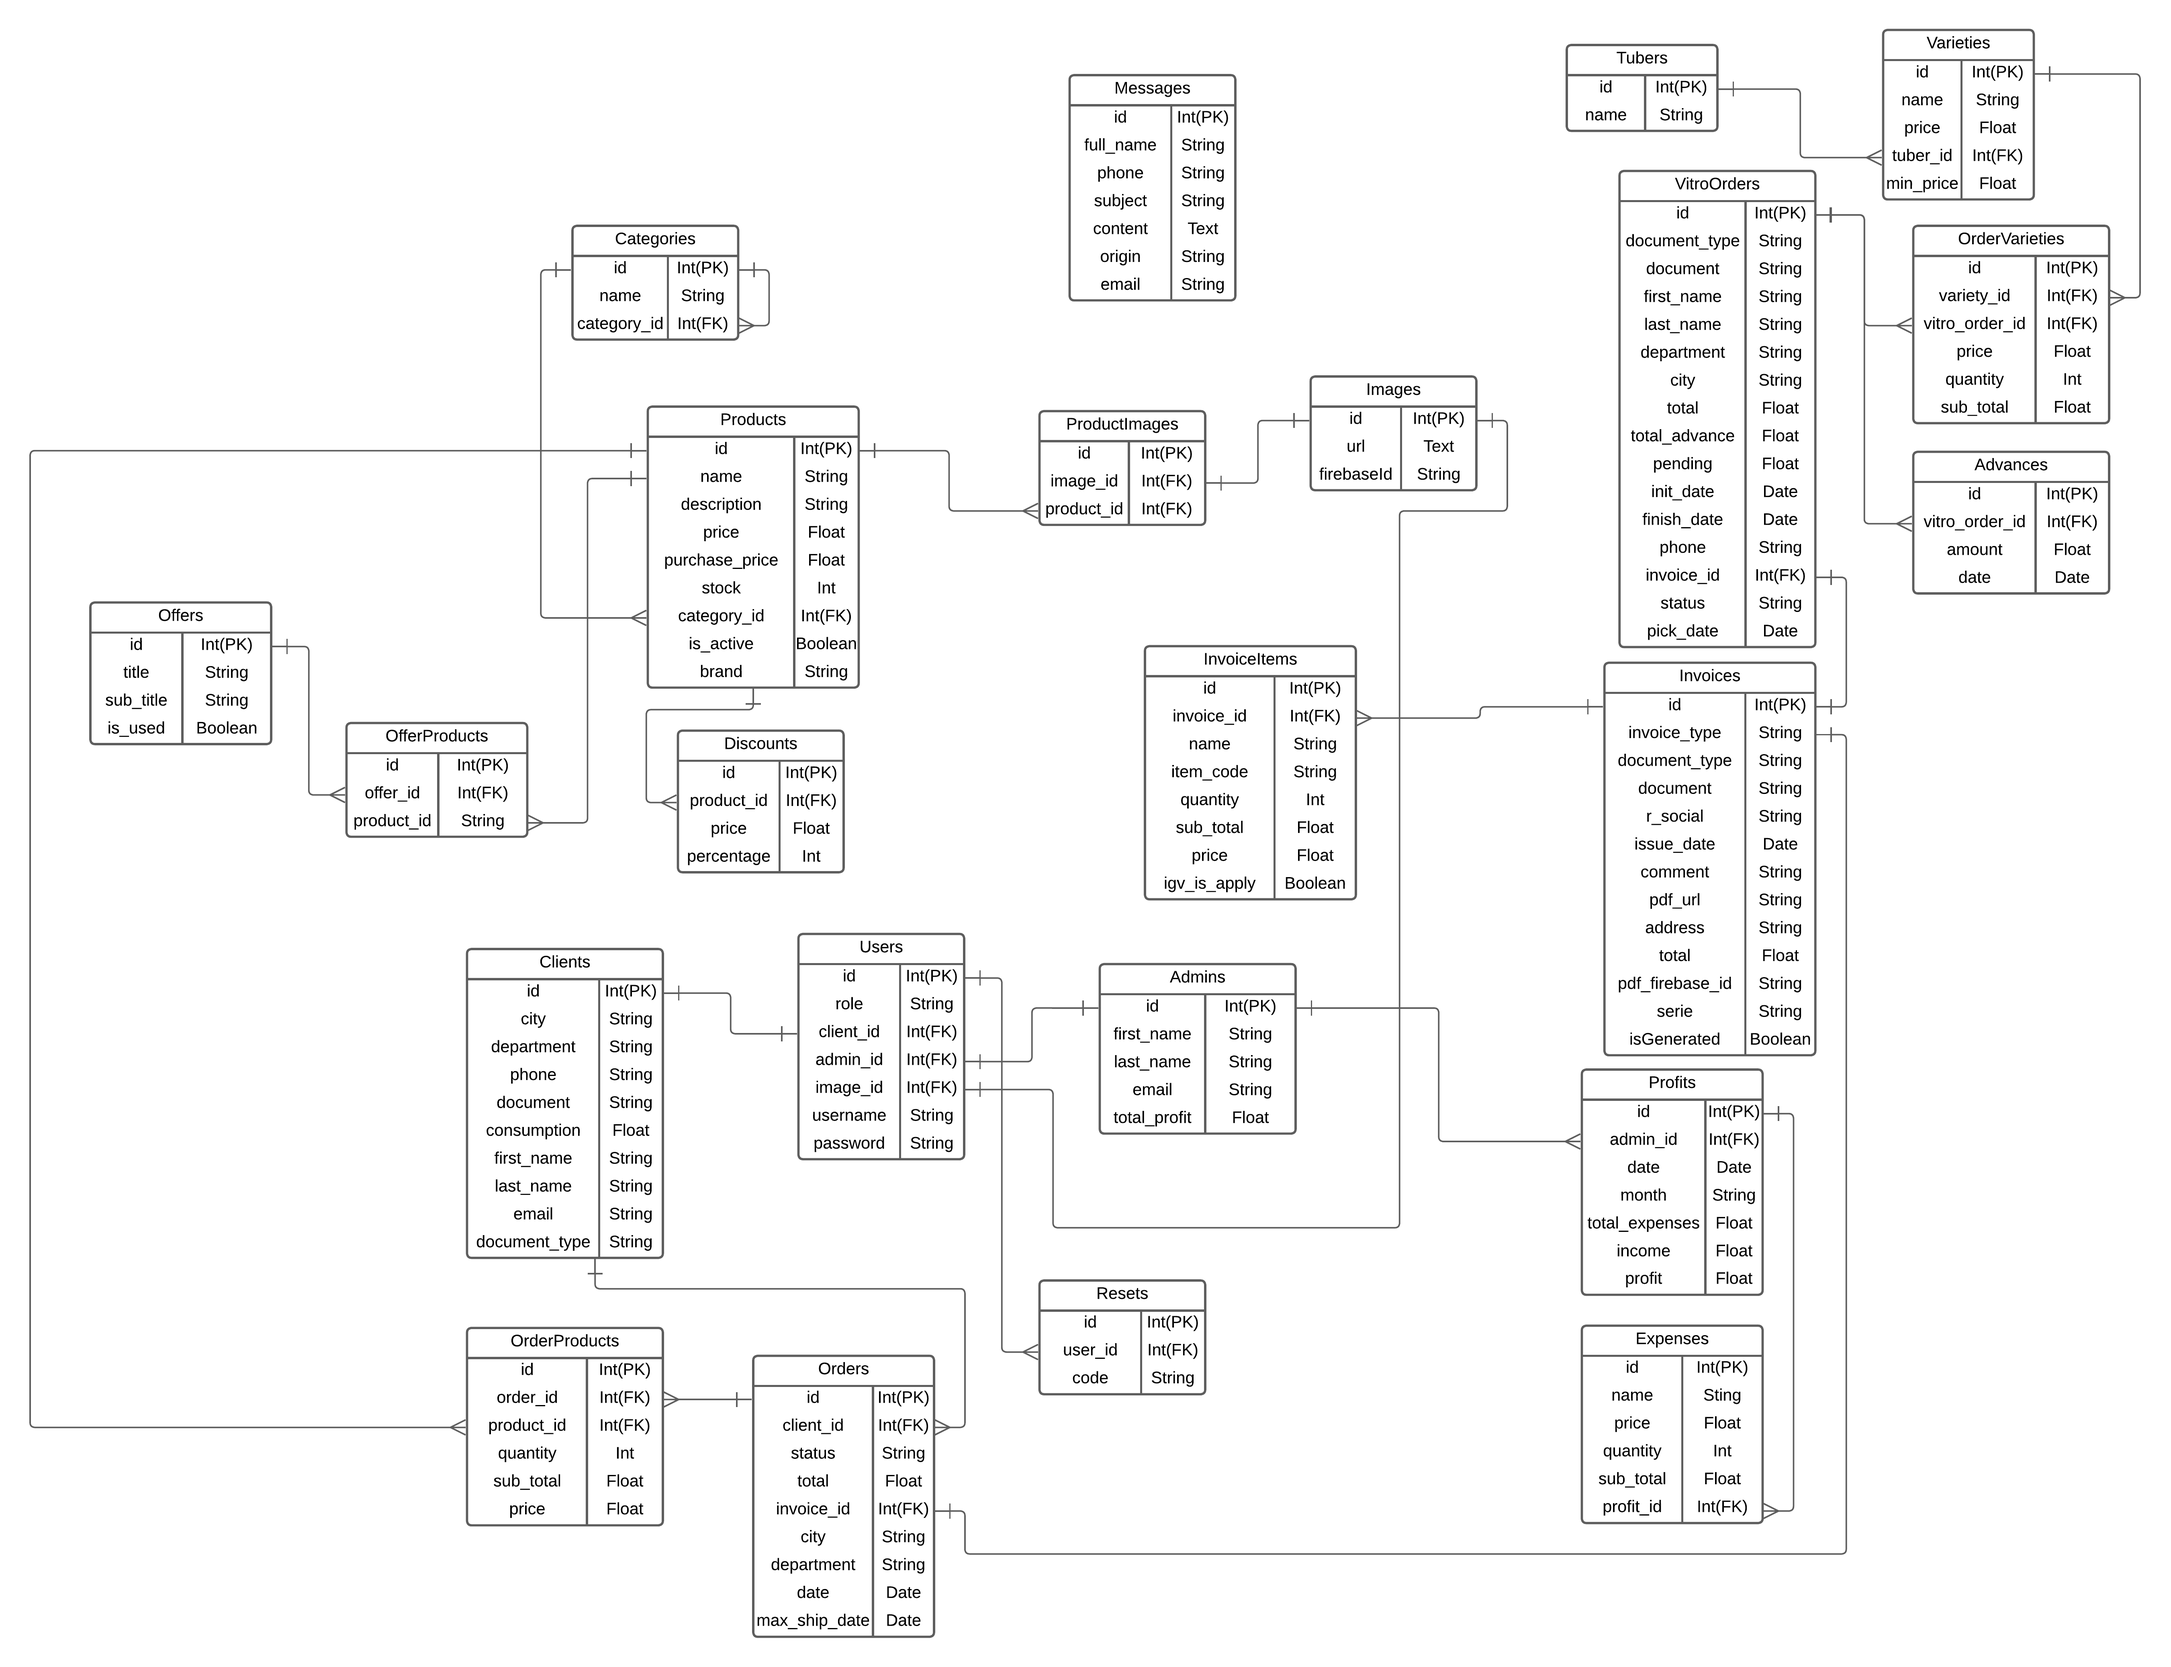
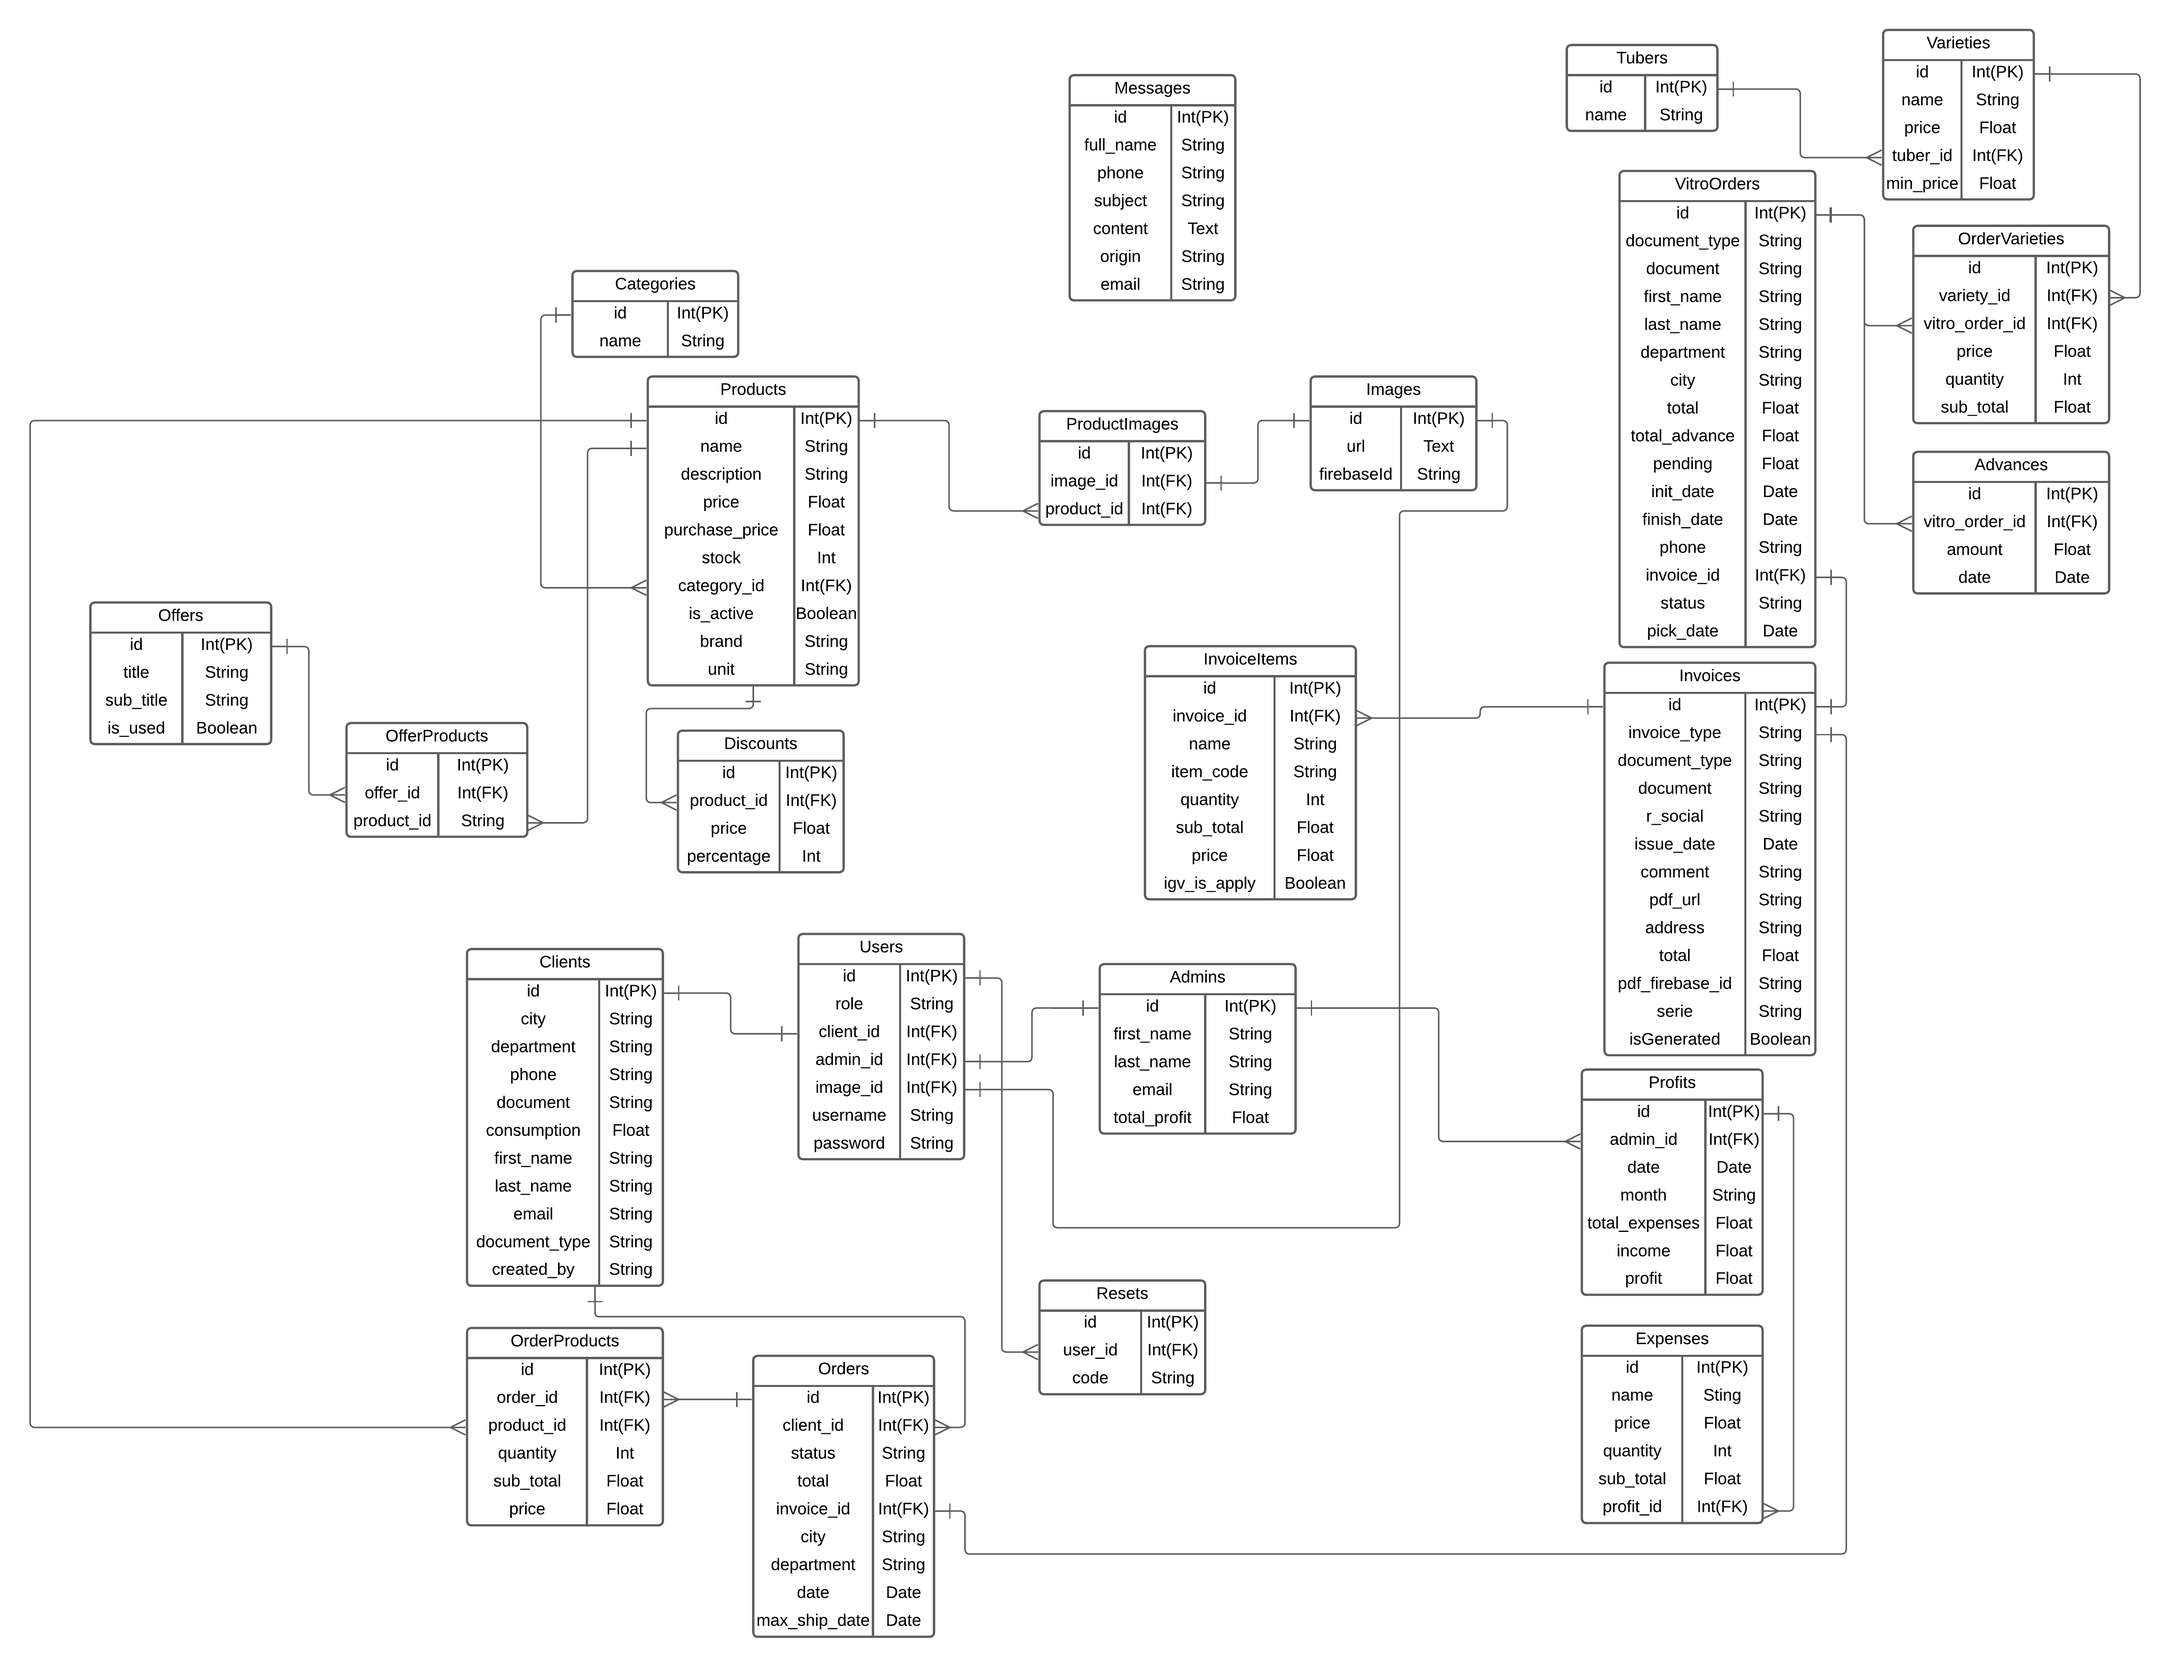
UPDATE: models

Changed region(s): [[0.3109, 0.2176, 0.4041, 0.4353], [0.2487, 0.1244, 0.342, 0.2176], [0.2176, 0.7462, 0.3109, 0.7773]]

diff --git a/src/main/java/com/inversionesaraujo/api/controller/CategoryController.java b/src/main/java/com/inversionesaraujo/api/controller/CategoryController.java
@@ -16,7 +16,6 @@ import org.springframework.web.bind.annotation.RestController;
 
 import com.inversionesaraujo.api.model.entity.Category;
 import com.inversionesaraujo.api.model.payload.MessageResponse;
-import com.inversionesaraujo.api.model.request.CategoryRequest;
 import com.inversionesaraujo.api.service.ICategory;
 
 @RestController
@@ -27,7 +26,7 @@ public class CategoryController {
 
     @GetMapping
     public List<Category> getAll() {
-        return categoryService.listParentCategories();
+        return categoryService.listAll();
     }
 
     @GetMapping("{id}")
@@ -49,20 +48,14 @@ public class CategoryController {
     }
 
     @PostMapping
-    public ResponseEntity<MessageResponse> create(@RequestBody CategoryRequest categoryRequest) {
+    public ResponseEntity<MessageResponse> create(@RequestBody Category newCategory) {
         try {
-            Category categoryToSave = new Category();
-            if(categoryRequest.getCategoryId() != null) {
-                Category parentCategory = categoryService.findById(categoryRequest.getCategoryId());
-                categoryToSave.setCategory(parentCategory);
-            }
-            categoryToSave.setName(categoryRequest.getName());
-            categoryToSave = categoryService.save(categoryToSave);
+            Category savedCategory = categoryService.save(newCategory);
 
             return new ResponseEntity<>(MessageResponse
                 .builder()
                 .message("La categoria se creo con exito")
-                .data(categoryToSave)
+                .data(savedCategory)
                 .build(), HttpStatus.CREATED);   
         }catch (Exception error) {
             return new ResponseEntity<>(MessageResponse
@@ -73,13 +66,9 @@ public class CategoryController {
     }
 
     @PutMapping("{id}")
-    public ResponseEntity<MessageResponse> update(@RequestBody CategoryRequest categoryRequest, @PathVariable Integer id) {
+    public ResponseEntity<MessageResponse> update(@RequestBody Category categoryRequest, @PathVariable Integer id) {
         try {
             Category categoryToUpdate = categoryService.findById(id);
-            if(categoryRequest.getCategoryId() != null) {
-                Category categoryParent = categoryService.findById(categoryRequest.getCategoryId());
-                categoryToUpdate.setCategory(categoryParent);
-            }
             categoryToUpdate.setName(categoryRequest.getName());
             Category updatedCategory = categoryService.save(categoryToUpdate);
 

diff --git a/src/main/java/com/inversionesaraujo/api/controller/ProductController.java b/src/main/java/com/inversionesaraujo/api/controller/ProductController.java
@@ -66,19 +66,20 @@ public class ProductController {
     }
 
     @PostMapping
-    public ResponseEntity<MessageResponse> create(@RequestBody ProductRequest product) {
+    public ResponseEntity<MessageResponse> create(@RequestBody ProductRequest productRequest) {
         try {
-            Category category = categoryService.findById(product.getCategoryId());
+            Category category = categoryService.findById(productRequest.getCategoryId());
             Product productToSave = productService.save(Product
                 .builder()
                 .category(category)
-                .description(product.getDescription())
-                .isActive(product.getIsActive())
-                .name(product.getName())
-                .brand(product.getBrand())
-                .price(product.getPrice())
-                .purchasePrice(product.getPurchasePrice())
-                .stock(product.getStock())
+                .description(productRequest.getDescription())
+                .isActive(productRequest.getIsActive())
+                .name(productRequest.getName())
+                .brand(productRequest.getBrand())
+                .price(productRequest.getPrice())
+                .purchasePrice(productRequest.getPurchasePrice())
+                .stock(productRequest.getStock())
+                .unit(productRequest.getUnit())
                 .build());
 
             return new ResponseEntity<>(MessageResponse
@@ -107,6 +108,7 @@ public class ProductController {
             product.setName(productRequest.getName());
             product.setBrand(productRequest.getBrand());
             product.setDescription(productRequest.getDescription());
+            product.setUnit(productRequest.getUnit());
 
             Product productUpdated = productService.save(product);
 

diff --git a/src/main/java/com/inversionesaraujo/api/model/entity/Product.java b/src/main/java/com/inversionesaraujo/api/model/entity/Product.java
@@ -33,26 +33,28 @@ public class Product {
     @Id
     @GeneratedValue(strategy = GenerationType.IDENTITY)
     private Integer id;
-    @NotEmpty(message = "El nombre no puede ir vacio")
+    @NotEmpty(message = "El nombre no puede ir vacío")
     @Size(min = 3, max = 100)
     private String name;
     @Column(columnDefinition = "TEXT")
-    @NotEmpty(message = "La descripcion no puede ir vacia")
+    @NotEmpty(message = "La descripcion no puede ir vacía")
     private String description;
-    @NotEmpty(message = "La marca no puede ir vacia")
+    @NotEmpty(message = "La marca no puede ir vacía")
     private String brand;
-    @NotNull(message = "El precio no puede ir vacio")
+    @NotEmpty(message = "La unidad de medida no puede ir vacía")
+    private String unit;
+    @NotNull(message = "El precio no puede ir vacío")
     @PositiveOrZero
     private Double price;
-    @NotNull(message = "El precio de compra no puede ir vacio")
+    @NotNull(message = "El precio de compra no puede ir vacío")
     @PositiveOrZero
     private Double purchasePrice;
-    @NotNull(message = "El stock no puede ir vacio")
+    @NotNull(message = "El stock no puede ir vacío")
     @PositiveOrZero
     private Integer stock;
     @ManyToOne
     @JoinColumn(name = "category_id")
-    @NotNull(message = "El id de la categoria no puede ir vacia")
+    @NotNull(message = "El id de la categoria no puede ir vacía")
     private Category category;
     @Column(nullable = false)
     @Builder.Default

diff --git a/src/main/java/com/inversionesaraujo/api/model/entity/Category.java b/src/main/java/com/inversionesaraujo/api/model/entity/Category.java
@@ -1,19 +1,9 @@
 package com.inversionesaraujo.api.model.entity;
 
-import java.util.List;
-
-import com.fasterxml.jackson.annotation.JsonIgnore;
-import com.fasterxml.jackson.annotation.JsonIgnoreProperties;
-
-import jakarta.persistence.CascadeType;
 import jakarta.persistence.Entity;
-import jakarta.persistence.FetchType;
 import jakarta.persistence.GeneratedValue;
 import jakarta.persistence.GenerationType;
 import jakarta.persistence.Id;
-import jakarta.persistence.JoinColumn;
-import jakarta.persistence.ManyToOne;
-import jakarta.persistence.OneToMany;
 import jakarta.persistence.Table;
 import jakarta.validation.constraints.NotEmpty;
 import jakarta.validation.constraints.Size;
@@ -35,11 +25,4 @@ public class Category {
     @NotEmpty(message = "El nombre no puede ir vacio")
     @Size(min = 3)
     private String name;
-    @ManyToOne
-    @JoinColumn(name = "category_id")
-    @JsonIgnore
-    private Category category;
-    @OneToMany(mappedBy = "category", cascade = CascadeType.ALL, fetch = FetchType.LAZY)
-    @JsonIgnoreProperties("category")
-    private List<Category> subCategories;
 }

diff --git a/src/main/java/com/inversionesaraujo/api/model/dao/CategoryDao.java b/src/main/java/com/inversionesaraujo/api/model/dao/CategoryDao.java
@@ -1,11 +1,7 @@
 package com.inversionesaraujo.api.model.dao;
 
-import java.util.List;
-
 import org.springframework.data.jpa.repository.JpaRepository;
 
 import com.inversionesaraujo.api.model.entity.Category;
 
-public interface CategoryDao extends JpaRepository<Category, Integer> {
-  List<Category> findByCategoryIsNull();
-}
+public interface CategoryDao extends JpaRepository<Category, Integer> {}

diff --git a/src/main/java/com/inversionesaraujo/api/model/entity/Client.java b/src/main/java/com/inversionesaraujo/api/model/entity/Client.java
@@ -55,6 +55,9 @@ public class Client {
     @NotEmpty(message = "Los nombres no pueden ir vacios")
     @Size(min = 3)
     private String rsocial;
+    @Column(nullable = false)
+    @Builder.Default
+    private String createdBy = Role.CLIENTE.toString();
     @NotEmpty(message = "El email no puede ir vacio")
     @Email(message = "El formato es incorrecto")
     @Column(unique = true)

diff --git a/src/main/java/com/inversionesaraujo/api/service/impl/CategoryImpl.java b/src/main/java/com/inversionesaraujo/api/service/impl/CategoryImpl.java
@@ -36,7 +36,7 @@ public class CategoryImpl implements ICategory {
 
     @Transactional(readOnly = true)
     @Override
-    public List<Category> listParentCategories() {
-        return categoryDao.findByCategoryIsNull();
+    public List<Category> listAll() {
+        return categoryDao.findAll();
     }
 }

diff --git a/src/main/java/com/inversionesaraujo/api/service/ICategory.java b/src/main/java/com/inversionesaraujo/api/service/ICategory.java
@@ -5,7 +5,7 @@ import java.util.List;
 import com.inversionesaraujo.api.model.entity.Category;
 
 public interface ICategory {
-    List<Category> listParentCategories();
+    List<Category> listAll();
 
     Category save(Category category);
 

diff --git a/src/main/java/com/inversionesaraujo/api/model/request/ProductRequest.java b/src/main/java/com/inversionesaraujo/api/model/request/ProductRequest.java
@@ -18,4 +18,5 @@ public class ProductRequest {
     private String name;
     private String description;
     private String brand;
+    private String unit;
 }
